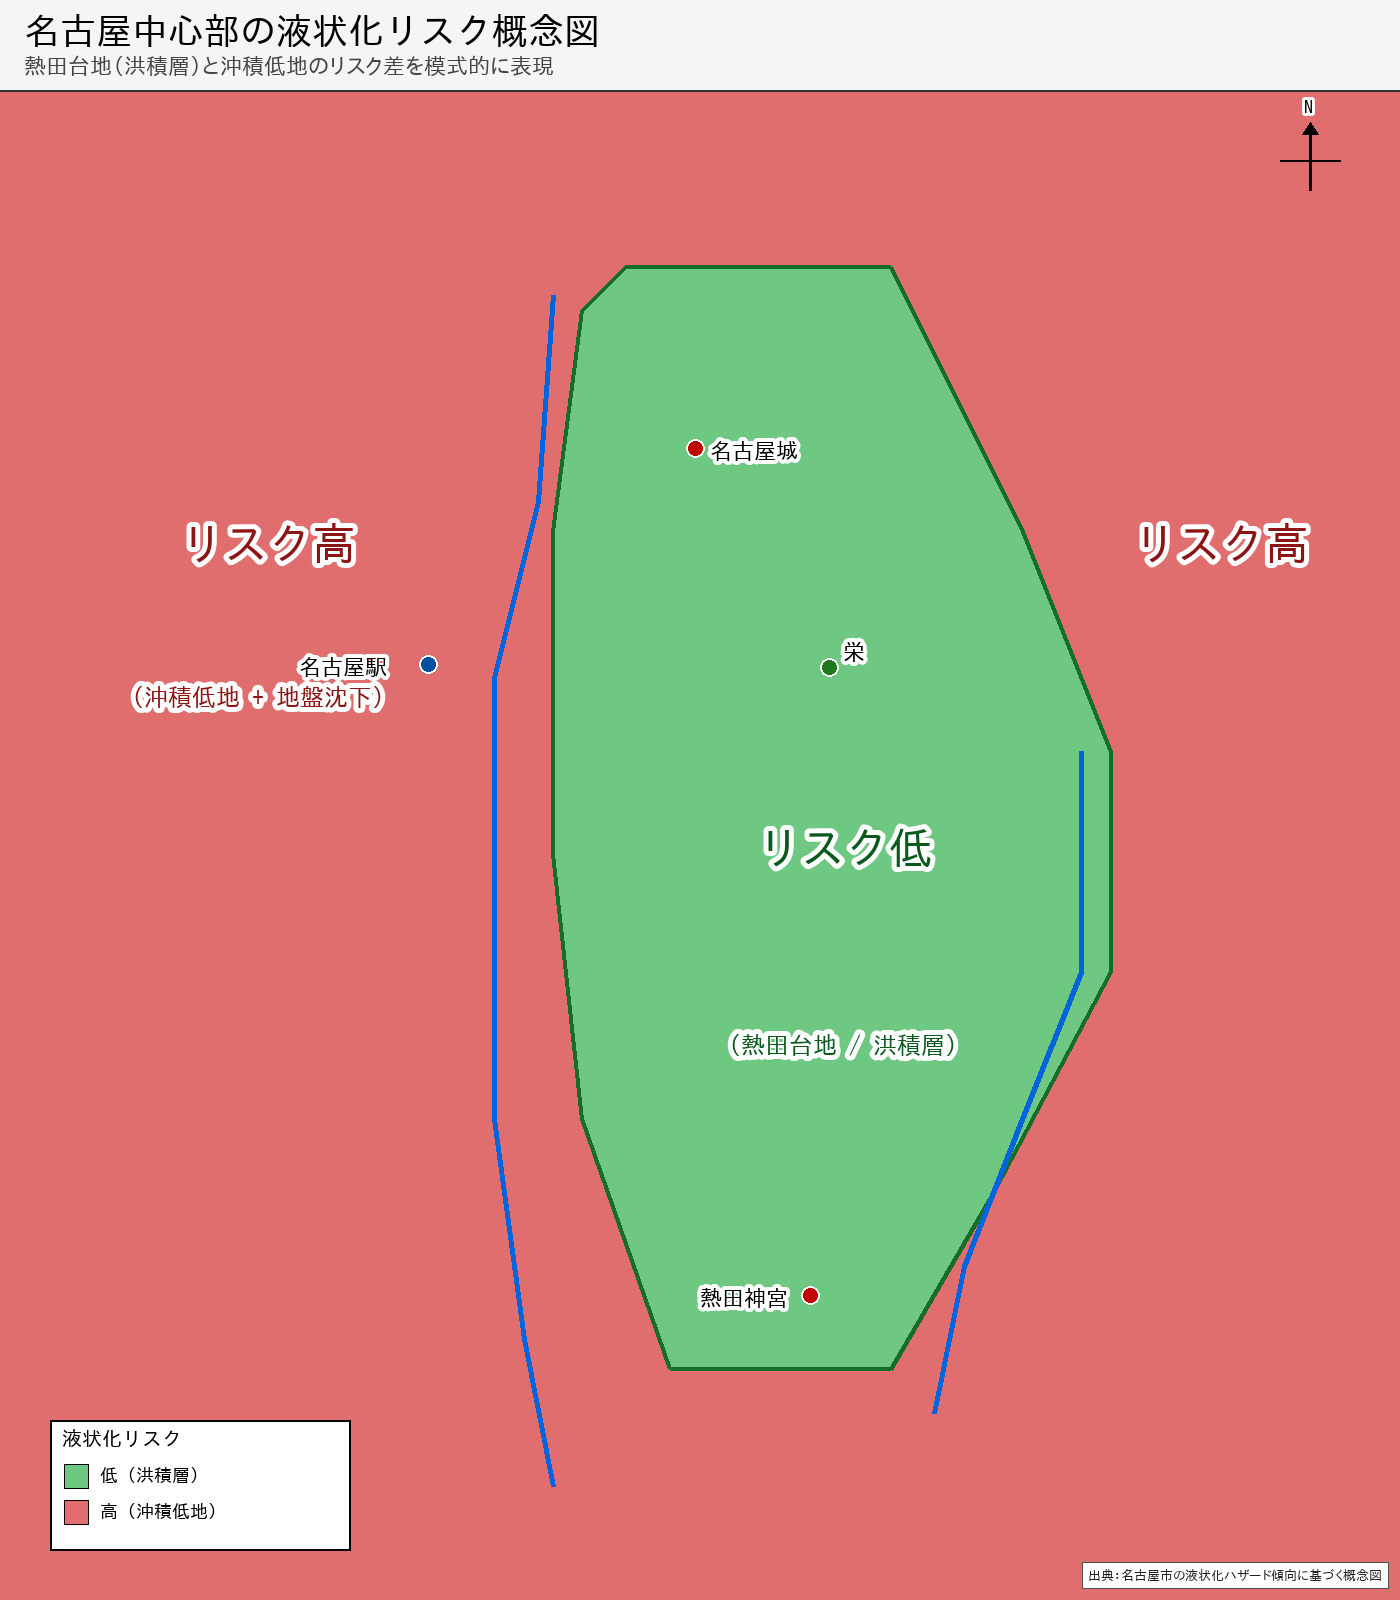
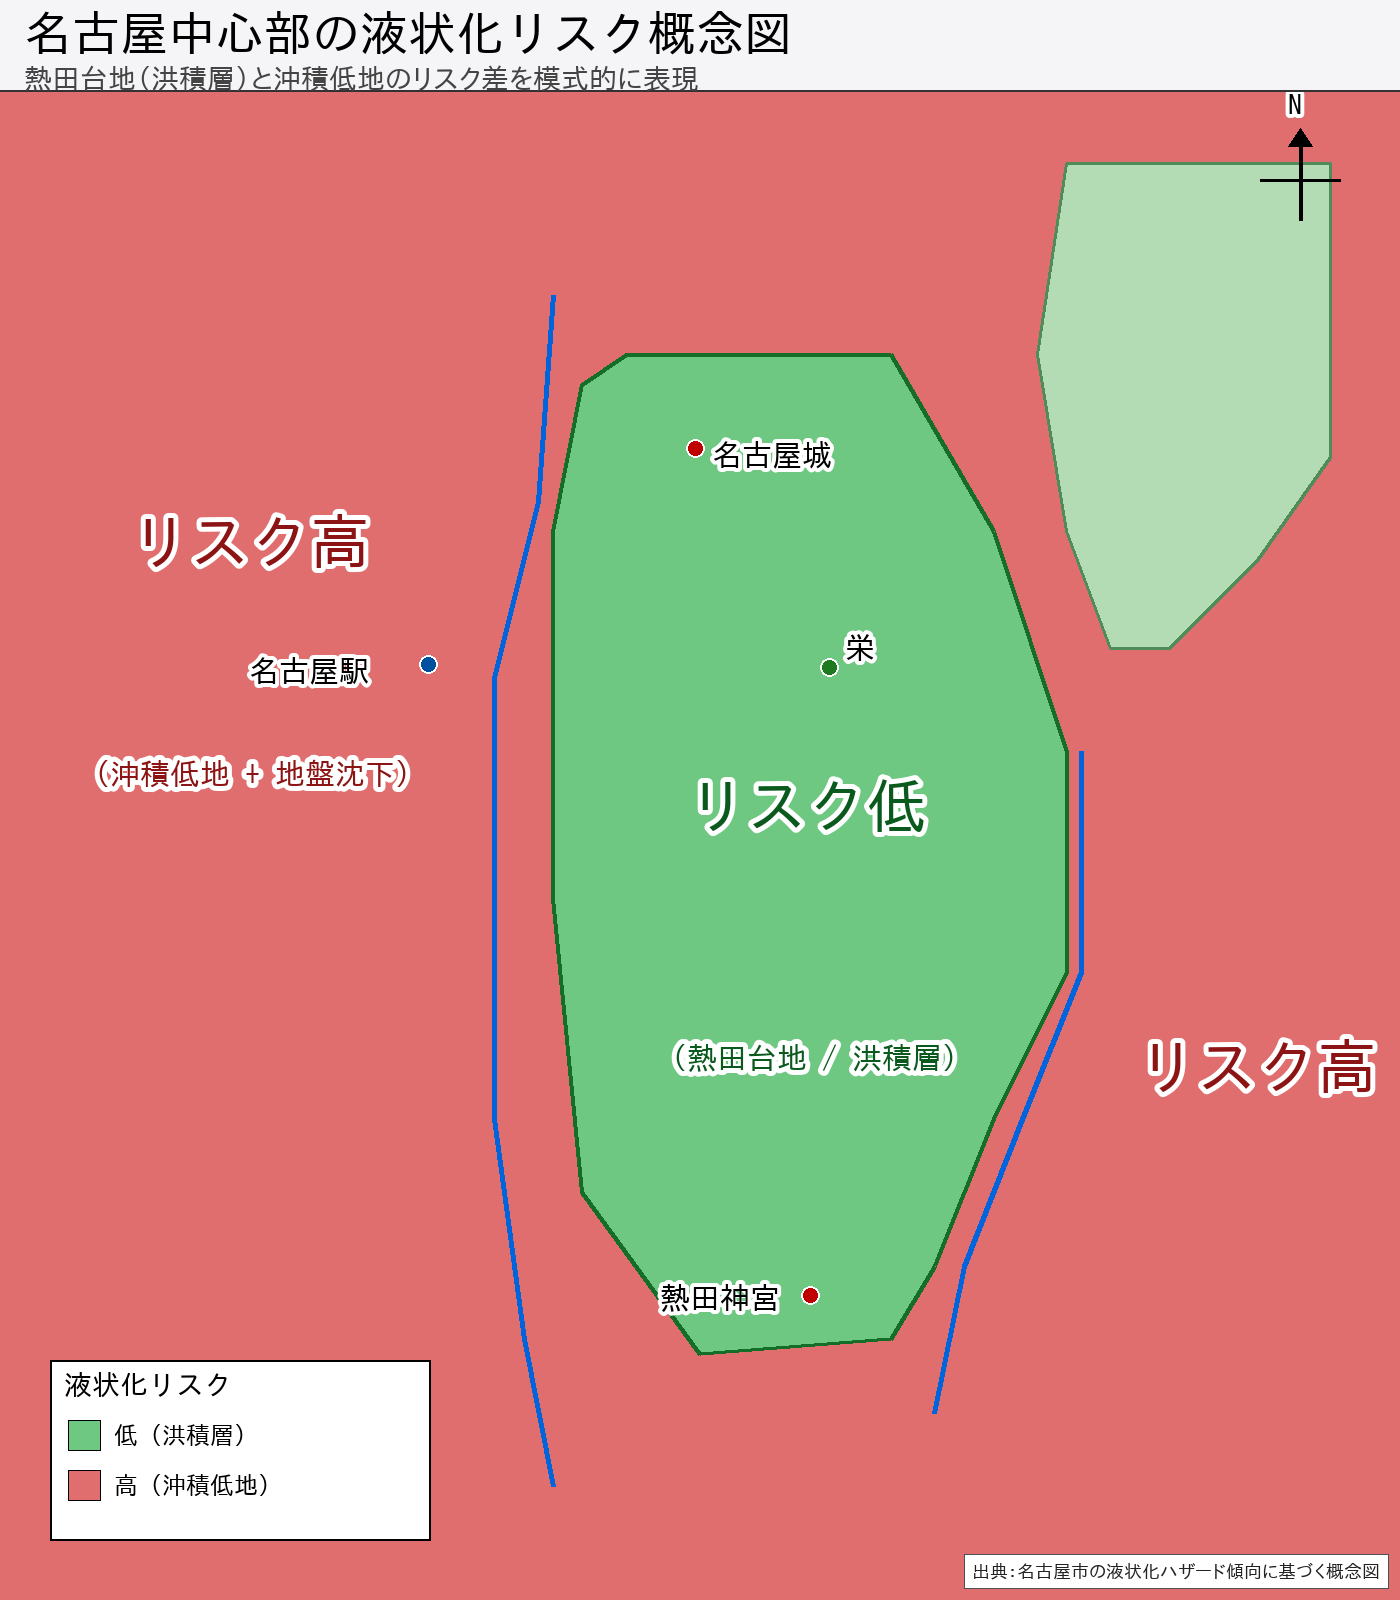
Refine maps: 大曽根面を別段丘として分離・標高情報追加・フォント拡大
地形・液状化図の修正:
- 大曽根面を熱田台地から分離し、別段丘（同じく洪積層）として淡色で参考表示
- 熱田台地ポリゴンを熱田面のみに縮小、名古屋城を北限寄り・熱田神宮を南限寄りに
- メイテツコム熱田DCを台地の南東端に配置
- 標高情報を追加（北部約10〜15m / 南部5m未満 / 南東端約2m）
- 図中フォントを全体的に拡大（縮小表示でも読めるよう）

Markdown更新:
- 名古屋の地形スライドに大曽根面・標高勾配の説明を追記

指示ファイル更新:
- 大曽根面を熱田台地に含めない旨を禁止事項に追加
- 標高情報・主要拠点の位置を重要事実に追加

https://claude.ai/code/session_01AiUGM1aSD6c23eo2xiZBRn

diff --git a/scripts/generate_maps.py b/scripts/generate_maps.py
@@ -55,25 +55,51 @@ def lonlat_to_px(lat, lon):
     return (x, py)
 
 
-# 熱田台地のおおよその輪郭
+# 熱田台地（＝熱田面）の輪郭。大曽根面は別の洪積層として OZONE_POLYGON に分離
 PLATEAU_POLYGON = [
-    (35.198, 136.895), (35.198, 136.913), (35.180, 136.922),
-    (35.165, 136.928), (35.150, 136.928), (35.135, 136.920),
-    (35.123, 136.913), (35.123, 136.898), (35.140, 136.892),
-    (35.158, 136.890), (35.180, 136.890), (35.195, 136.892),
+    # 北部（名古屋城北側）— 名古屋城を北限寄りに
+    (35.192, 136.895),   # 名古屋城北西
+    (35.192, 136.913),   # 名古屋城北東
+    # 中央東部（栄〜千種〜矢場町〜上前津）
+    (35.180, 136.920),
+    (35.165, 136.925),
+    (35.150, 136.925),
+    (35.140, 136.920),
+    (35.130, 136.916),
+    # 南東端（メイテツコム熱田DC付近）
+    (35.125, 136.913),
+    # 南部（熱田神宮周辺）— 熱田神宮を南限寄りに
+    (35.124, 136.900),
+    # 西側（堀川沿い）
+    (35.135, 136.892),
+    (35.155, 136.890),
+    (35.180, 136.890),
+    (35.190, 136.892),
+]
+
+# 大曽根面（熱田台地ではないが、同じく洪積層）— 参考として淡色で表示
+OZONE_POLYGON = [
+    (35.205, 136.925),
+    (35.205, 136.943),
+    (35.185, 136.943),
+    (35.178, 136.938),
+    (35.172, 136.932),
+    (35.172, 136.928),
+    (35.180, 136.925),
+    (35.192, 136.923),
 ]
 
 LANDMARKS = [
-    ("名古屋城",  35.1856, 136.8997, "#c00000", (14, -10)),
-    ("名古屋駅",  35.1709, 136.8815, "#0050a0", (-130, -10)),
-    ("栄",        35.1707, 136.9088, "#1f7a1f", (14, -28)),
-    ("熱田神宮",  35.1280, 136.9075, "#c00000", (-110, -10)),
+    ("名古屋城",  35.1856, 136.8997, "#c00000", (16, -10)),
+    ("名古屋駅",  35.1709, 136.8815, "#0050a0", (-180, -10)),
+    ("栄",        35.1707, 136.9088, "#1f7a1f", (16, -36)),
+    ("熱田神宮",  35.1280, 136.9075, "#c00000", (-150, -14)),
 ]
 
 DATA_CENTERS = [
-    ("ctc 名古屋丸の内",   35.1810, 136.8965, "#7030a0", (14, 6)),
-    ("ctc 名古屋栄",       35.1690, 136.9075, "#7030a0", (14, 6)),
-    ("メイテツコム熱田DC", 35.1295, 136.9085, "#7030a0", (14, 16)),
+    ("ctc 名古屋丸の内",   35.1810, 136.8965, "#7030a0", (16, 8)),
+    ("ctc 名古屋栄",       35.1690, 136.9075, "#7030a0", (16, 8)),
+    ("メイテツコム熱田DC", 35.1265, 136.9110, "#7030a0", (16, 16)),
 ]
 
 HORIKAWA = [
@@ -121,21 +147,21 @@ def draw_label(draw, lat, lon, text, font, color, offset=(0, 0)):
 
 def draw_title(img, title, subtitle=None):
     draw = ImageDraw.Draw(img)
-    title_font = get_font(36, bold=True)
-    sub_font = get_font(22)
+    title_font = get_font(48, bold=True)
+    sub_font = get_font(28)
     draw.rectangle((0, 0, img.width, TITLE_BAND_H), fill=(245, 245, 248))
     draw.line((0, TITLE_BAND_H, img.width, TITLE_BAND_H), fill=(50, 50, 50), width=2)
-    draw.text((24, 12), title, fill="black", font=title_font)
+    draw.text((24, 8), title, fill="black", font=title_font)
     if subtitle:
-        draw.text((24, 54), subtitle, fill="#444444", font=sub_font)
+        draw.text((24, 64), subtitle, fill="#444444", font=sub_font)
 
 
 def draw_credit(img, text):
     draw = ImageDraw.Draw(img)
-    f = get_font(13)
+    f = get_font(18)
     bbox = draw.textbbox((0, 0), text, font=f)
     tw, th = bbox[2] - bbox[0], bbox[3] - bbox[1]
-    pad = 6
+    pad = 8
     cx = img.width - tw - pad * 2 - 12
     cy = img.height - th - pad * 2 - 12
     draw.rectangle((cx, cy, cx + tw + pad * 2, cy + th + pad * 2),
@@ -143,23 +169,23 @@ def draw_credit(img, text):
     draw.text((cx + pad, cy + pad), text, fill="#222222", font=f)
 
 
-def draw_compass(img, x, y, size=80):
+def draw_compass(img, x, y, size=100):
     draw = ImageDraw.Draw(img)
-    f = get_font(18, bold=True)
-    draw.line((x, y - size // 2, x, y + size // 2), fill="black", width=3)
-    draw.line((x - size // 2, y, x + size // 2, y), fill="black", width=2)
-    draw.polygon([(x, y - size // 2 - 8), (x - 8, y - size // 2 + 4), (x + 8, y - size // 2 + 4)], fill="black")
-    draw.text((x - 6, y - size // 2 - 32), "N", fill="black", font=f, stroke_width=3, stroke_fill="white")
+    f = get_font(28, bold=True)
+    draw.line((x, y - size // 2, x, y + size // 2), fill="black", width=4)
+    draw.line((x - size // 2, y, x + size // 2, y), fill="black", width=3)
+    draw.polygon([(x, y - size // 2 - 12), (x - 12, y - size // 2 + 6), (x + 12, y - size // 2 + 6)], fill="black")
+    draw.text((x - 12, y - size // 2 - 50), "N", fill="black", font=f, stroke_width=4, stroke_fill="white")
 
 
 def draw_scale_bar(img, x, y, length_km=1.0):
     draw = ImageDraw.Draw(img)
     px_per_deg = abs(lonlat_to_px(35.150, 136.900)[1] - lonlat_to_px(35.160, 136.900)[1]) / 0.010
     bar_px = int(px_per_deg * (length_km / 111.0))
-    draw.rectangle((x, y, x + bar_px, y + 10), fill="black")
-    f = get_font(16, bold=True)
-    draw.text((x, y + 14), f"{length_km:g} km", fill="black", font=f,
-              stroke_width=3, stroke_fill="white")
+    draw.rectangle((x, y, x + bar_px, y + 14), fill="black")
+    f = get_font(22, bold=True)
+    draw.text((x, y + 18), f"{length_km:g} km", fill="black", font=f,
+              stroke_width=4, stroke_fill="white")
 
 
 def render_topographic_map():
@@ -169,7 +195,12 @@ def render_topographic_map():
     draw = ImageDraw.Draw(img)
     draw.rectangle((0, TITLE_BAND_H, IMG_W, IMG_H), fill=(190, 218, 240))
 
-    # 熱田台地を上に重ねる
+    # 大曽根面（参考：熱田台地ではないが同じく洪積層）を淡色で重ねる
+    draw_filled_polygon(img, OZONE_POLYGON,
+                        fill=(240, 220, 170, 255),
+                        outline=(170, 130, 60), outline_width=3)
+
+    # 熱田台地（熱田面）を上に重ねる
     draw_filled_polygon(img, PLATEAU_POLYGON,
                         fill=(255, 200, 110, 255),
                         outline=(180, 90, 0), outline_width=4)
@@ -181,69 +212,84 @@ def render_topographic_map():
     draw_river(draw, SHIN_HORIKAWA, color=(0, 100, 220), width=6)
 
     # 河川ラベル
-    river_font = get_font(22, bold=True)
-    draw_label(draw, 35.150, 136.880, "堀川", river_font, (0, 60, 160), offset=(0, -10))
-    draw_label(draw, 35.155, 136.928, "新堀川", river_font, (0, 60, 160), offset=(10, -10))
+    river_font = get_font(32, bold=True)
+    draw_label(draw, 35.150, 136.878, "堀川", river_font, (0, 60, 160), offset=(0, -10))
+    draw_label(draw, 35.140, 136.918, "新堀川", river_font, (0, 60, 160), offset=(10, 0))
 
-    # 台地ラベル
-    plateau_font = get_font(48, bold=True)
-    draw_label(draw, 35.158, 136.910, "熱田台地", plateau_font, (140, 60, 0), offset=(-100, -30))
-    plateau_sub_font = get_font(22, bold=True)
-    draw_label(draw, 35.150, 136.910, "（洪積層 / 標高約10〜15m）",
-               plateau_sub_font, (120, 60, 0), offset=(-130, 30))
+    # 台地ラベル（中央：熱田台地）
+    plateau_font = get_font(60, bold=True)
+    draw_label(draw, 35.158, 136.908, "熱田台地", plateau_font, (140, 60, 0), offset=(-130, -40))
+    draw_label(draw, 35.150, 136.908, "（洪積層 / 熱田面）",
+               get_font(28, bold=True), (140, 60, 0), offset=(-130, 35))
 
-    # 低地ラベル（西・東）— 凡例と被らない位置に
-    lowland_font = get_font(26, bold=True)
-    draw_label(draw, 35.150, 136.870, "沖積低地\n（旧低湿地）",
-               lowland_font, (30, 70, 130), offset=(-80, -20))
-    draw_label(draw, 35.180, 136.935, "沖積低地",
-               lowland_font, (30, 70, 130), offset=(-50, -10))
+    # 大曽根面ラベル（熱田台地ではない、参考表示）
+    draw_label(draw, 35.195, 136.934, "大曽根面",
+               get_font(30, bold=True), (130, 100, 30), offset=(-70, -10))
+    draw_label(draw, 35.187, 136.934, "（同じく洪積層／参考）",
+               get_font(20, bold=True), (130, 100, 30), offset=(-100, 25))
+
+    # 標高表示（台地内・北部 / 南部）
+    elev_font = get_font(24, bold=True)
+    draw_label(draw, 35.183, 136.905, "標高 約10〜15m",
+               elev_font, (90, 50, 10), offset=(-145, -45))
+    draw_label(draw, 35.130, 136.902, "標高 5m未満",
+               elev_font, (140, 30, 30), offset=(-145, 0))
+    draw_label(draw, 35.126, 136.913, "（南東端 約2m）",
+               get_font(20, bold=True), (140, 30, 30), offset=(24, 28))
+
+    # 低地ラベル（西・東）
+    lowland_font = get_font(34, bold=True)
+    draw_label(draw, 35.155, 136.868, "沖積低地\n（旧低湿地）",
+               lowland_font, (30, 70, 130), offset=(-110, -20))
+    draw_label(draw, 35.140, 136.940, "沖積\n低地",
+               lowland_font, (30, 70, 130), offset=(-30, -20))
 
     # ランドマーク
-    landmark_font = get_font(22, bold=True)
+    landmark_font = get_font(30, bold=True)
     for name, lat, lon, color, off in LANDMARKS:
         draw_marker_with_label(draw, lat, lon, name, color, landmark_font, off)
 
     # データセンター
-    dc_font = get_font(20, bold=True)
+    dc_font = get_font(28, bold=True)
     for name, lat, lon, color, off in DATA_CENTERS:
         draw_marker_with_label(draw, lat, lon, name, color, dc_font, off)
 
     # 凡例（下端）
     legend_x = MAP_MARGIN + 10
-    legend_y = IMG_H - 280
-    legend_w = 320
-    legend_h = 240
+    legend_y = IMG_H - 380
+    legend_w = 470
+    legend_h = 340
     draw.rectangle((legend_x, legend_y, legend_x + legend_w, legend_y + legend_h),
                    fill=(255, 255, 255), outline="black", width=2)
-    legend_title_font = get_font(20, bold=True)
-    draw.text((legend_x + 12, legend_y + 8), "凡例", fill="black", font=legend_title_font)
+    legend_title_font = get_font(28, bold=True)
+    draw.text((legend_x + 14, legend_y + 10), "凡例", fill="black", font=legend_title_font)
 
-    fl = get_font(17, bold=True)
+    fl = get_font(22, bold=True)
     items = [
-        ((255, 200, 110), "熱田台地（洪積層）", "fill"),
+        ((255, 200, 110), "熱田台地（洪積層／熱田面）", "fill"),
+        ((240, 220, 170), "大曽根面（同じく洪積層・参考）", "fill"),
         ((190, 218, 240), "沖積低地（液状化リスク高）", "fill"),
         ((0, 100, 220),  "河川（堀川／新堀川）", "line"),
         ((192, 0, 0),    "主要ランドマーク", "marker"),
         ((112, 48, 160), "データセンター", "marker"),
     ]
-    yy = legend_y + 38
+    yy = legend_y + 50
     for color, label, kind in items:
         if kind == "fill":
-            draw.rectangle((legend_x + 14, yy, legend_x + 38, yy + 24), fill=color, outline="black")
+            draw.rectangle((legend_x + 18, yy, legend_x + 48, yy + 30), fill=color, outline="black")
         elif kind == "line":
-            draw.line((legend_x + 14, yy + 12, legend_x + 38, yy + 12), fill=color, width=5)
+            draw.line((legend_x + 18, yy + 15, legend_x + 48, yy + 15), fill=color, width=6)
         elif kind == "marker":
-            cx, cy = legend_x + 26, yy + 12
-            draw.ellipse((cx - 8, cy - 8, cx + 8, cy + 8), fill=color, outline="white", width=2)
-        draw.text((legend_x + 50, yy + 2), label, fill="black", font=fl)
-        yy += 36
+            cx, cy = legend_x + 33, yy + 15
+            draw.ellipse((cx - 10, cy - 10, cx + 10, cy + 10), fill=color, outline="white", width=2)
+        draw.text((legend_x + 60, yy + 2), label, fill="black", font=fl)
+        yy += 46
 
-    draw_compass(img, IMG_W - 90, TITLE_BAND_H + 70, size=60)
-    draw_scale_bar(img, IMG_W - 200, IMG_H - 80, length_km=1.0)
+    draw_compass(img, IMG_W - 100, TITLE_BAND_H + 90, size=80)
+    draw_scale_bar(img, IMG_W - 260, IMG_H - 100, length_km=1.0)
 
     draw_title(img, "熱田台地と名古屋の主要拠点・データセンター",
-               "経緯度に基づく模式図（堀川・新堀川を境界に台地と低地を表現）")
+               "経緯度に基づく模式図（参考：北東の大曽根面も洪積層だが熱田台地ではない）")
     draw_credit(img, "作図：本LT資料用 概念図（地形は模式化）")
 
     out = os.path.join(OUT_DIR, "map_atsuta_plateau.png")
@@ -258,7 +304,12 @@ def render_liquefaction_map():
     draw = ImageDraw.Draw(img)
     draw.rectangle((0, TITLE_BAND_H, IMG_W, IMG_H), fill=(225, 110, 110))
 
-    # 台地（リスク低 = 緑）を重ねる
+    # 大曽根面（参考：同じく洪積層でリスク低）— 淡い緑
+    draw_filled_polygon(img, OZONE_POLYGON,
+                        fill=(180, 220, 180, 255),
+                        outline=(80, 140, 90), outline_width=3)
+
+    # 熱田台地（リスク低 = 緑）を重ねる
     draw_filled_polygon(img, PLATEAU_POLYGON,
                         fill=(110, 200, 130, 255),
                         outline=(20, 110, 40), outline_width=4)
@@ -270,45 +321,45 @@ def render_liquefaction_map():
     draw_river(draw, SHIN_HORIKAWA, color=(0, 100, 220), width=5)
 
     # 大ラベル
-    big_font = get_font(44, bold=True)
-    sub_font = get_font(24, bold=True)
+    big_font = get_font(60, bold=True)
+    sub_font = get_font(30, bold=True)
 
-    draw_label(draw, 35.158, 136.910, "リスク低",
-               big_font, (10, 90, 30), offset=(-90, -30))
-    draw_label(draw, 35.148, 136.910, "（熱田台地 / 洪積層）",
-               sub_font, (10, 90, 30), offset=(-130, 30))
+    draw_label(draw, 35.160, 136.908, "リスク低",
+               big_font, (10, 90, 30), offset=(-130, -50))
+    draw_label(draw, 35.148, 136.908, "（熱田台地 / 洪積層）",
+               sub_font, (10, 90, 30), offset=(-160, 40))
 
     draw_label(draw, 35.180, 136.870, "リスク高",
-               big_font, (140, 20, 20), offset=(-80, -10))
-    draw_label(draw, 35.172, 136.870, "（沖積低地 + 地盤沈下）",
-               sub_font, (140, 20, 20), offset=(-140, 35))
+               big_font, (140, 20, 20), offset=(-130, -20))
+    draw_label(draw, 35.168, 136.870, "（沖積低地 + 地盤沈下）",
+               sub_font, (140, 20, 20), offset=(-180, 50))
 
-    draw_label(draw, 35.180, 136.935, "リスク高",
-               big_font, (140, 20, 20), offset=(-80, -10))
+    draw_label(draw, 35.145, 136.940, "リスク高",
+               big_font, (140, 20, 20), offset=(-150, -10))
 
     # ランドマーク
-    landmark_font = get_font(22, bold=True)
+    landmark_font = get_font(30, bold=True)
     for name, lat, lon, color, off in LANDMARKS:
         draw_marker_with_label(draw, lat, lon, name, color, landmark_font, off)
 
     # 凡例
     legend_x = MAP_MARGIN + 10
-    legend_y = IMG_H - 180
-    legend_w = 300
-    legend_h = 130
+    legend_y = IMG_H - 240
+    legend_w = 380
+    legend_h = 180
     draw.rectangle((legend_x, legend_y, legend_x + legend_w, legend_y + legend_h),
                    fill=(255, 255, 255), outline="black", width=2)
-    fl = get_font(20, bold=True)
-    draw.text((legend_x + 12, legend_y + 8), "液状化リスク", fill="black", font=fl)
-    fl_item = get_font(18, bold=True)
-    draw.rectangle((legend_x + 14, legend_y + 44, legend_x + 38, legend_y + 68),
+    fl = get_font(28, bold=True)
+    draw.text((legend_x + 14, legend_y + 10), "液状化リスク", fill="black", font=fl)
+    fl_item = get_font(24, bold=True)
+    draw.rectangle((legend_x + 18, legend_y + 60, legend_x + 50, legend_y + 90),
                    fill=(110, 200, 130), outline="black")
-    draw.text((legend_x + 50, legend_y + 46), "低（洪積層）", fill="black", font=fl_item)
-    draw.rectangle((legend_x + 14, legend_y + 80, legend_x + 38, legend_y + 104),
+    draw.text((legend_x + 64, legend_y + 62), "低（洪積層）", fill="black", font=fl_item)
+    draw.rectangle((legend_x + 18, legend_y + 110, legend_x + 50, legend_y + 140),
                    fill=(225, 110, 110), outline="black")
-    draw.text((legend_x + 50, legend_y + 82), "高（沖積低地）", fill="black", font=fl_item)
+    draw.text((legend_x + 64, legend_y + 112), "高（沖積低地）", fill="black", font=fl_item)
 
-    draw_compass(img, IMG_W - 90, TITLE_BAND_H + 70, size=60)
+    draw_compass(img, IMG_W - 100, TITLE_BAND_H + 90, size=80)
 
     draw_title(img, "名古屋中心部の液状化リスク概念図",
                "熱田台地（洪積層）と沖積低地のリスク差を模式的に表現")

diff --git a/.agents/lt_nagoya_castle_datacenter.md b/.agents/lt_nagoya_castle_datacenter.md
@@ -44,6 +44,11 @@
 | 液状化リスクが低い理由 | 年代効果（aging effect）：長期の圧密・セメンテーション・応力履歴により洪積砂は液状化抵抗が高い |
 | 台地の東縁 | 新堀川（旧・精進川） |
 | 台地の西縁 | 堀川（名古屋城築城（1610年）時に開削した人工運河） |
+| 北東隣の段丘 | **大曽根面**（同じく洪積層だが熱田台地ではない別段丘）|
+| 標高 | 北部 約10〜15m／南部（熱田神宮周辺）5m未満／南東端 約2m |
+| 名古屋城の位置 | 熱田台地の**北限寄り**|
+| 熱田神宮の位置 | 熱田台地の**南限寄り**|
+| メイテツコム熱田DCの位置 | 熱田台地の**南東端**|
 
 ### 歴史・地理
 
@@ -100,7 +105,9 @@ python3 scripts/generate_maps.py
 
 - **PL値の閾値を「15以上で高リスク」と記述しない**（正：5超で高い・15超で極めて高い）
 - **ctcを「伊藤忠テクノソリューションズ」と記述しない**（正：中部テレコミュニケーション）
+- **大曽根面を熱田台地に含めない**（大曽根面は同じく洪積層だが、別の段丘）
 - 熱田層を単一層として説明しない（上部・下部の二層構造がある）
 - 液状化リスクが低い理由を「N値が高いから」と説明しない（N値は低め。年代効果が理由）
+- 熱田台地の標高を一律「約10〜15m」と説明しない（南部は5m未満、南東端は約2m）
 - 自己紹介スライドは含めない
 - 発表者名・イベント名・日付はプレースホルダー `（名前）` `（イベント名）` `（日付）` のままにする

diff --git a/lt_nagoya_castle_datacenter.md b/lt_nagoya_castle_datacenter.md
@@ -14,10 +14,12 @@
 
 ![熱田台地と名古屋の主要拠点・データセンター](images/map_atsuta_plateau.png)
 
-- **熱田台地の上**：名古屋城・城下町（現在の栄周辺）・熱田神宮
+- **熱田台地の上**：名古屋城（北限寄り）・城下町（現在の栄周辺）・熱田神宮（南限寄り）
 - **低湿地（沖積低地）**：現在の名古屋駅周辺
 - 西縁＝**堀川**（名古屋城築城（1610年）時の人工運河、熱田湊からの物資輸送路）
 - 東縁＝**新堀川**（旧・精進川）
+- 標高は北部で約10〜15m、南部（熱田神宮周辺）は5m未満、南東端では約2m
+- ※北東隣の**大曽根面**も洪積層だが熱田台地とは別段丘
 
 ---
 
